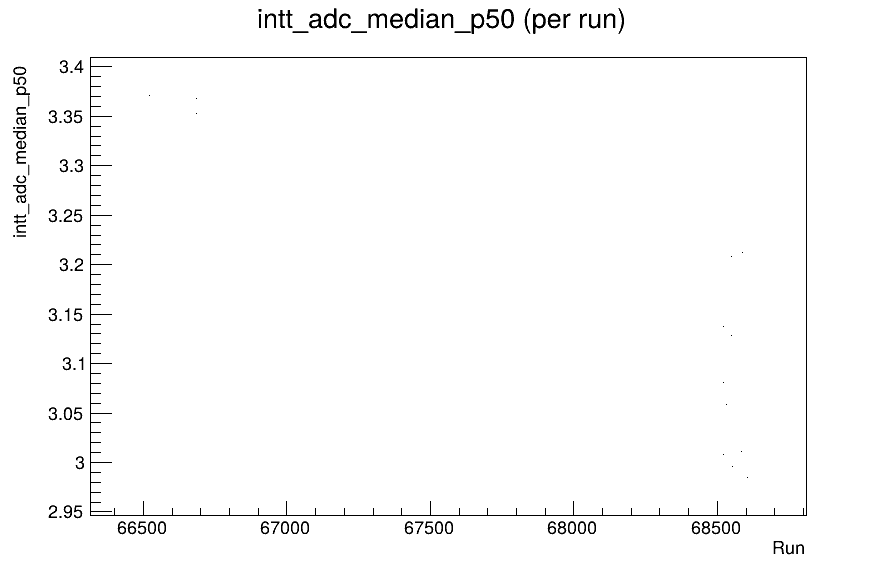
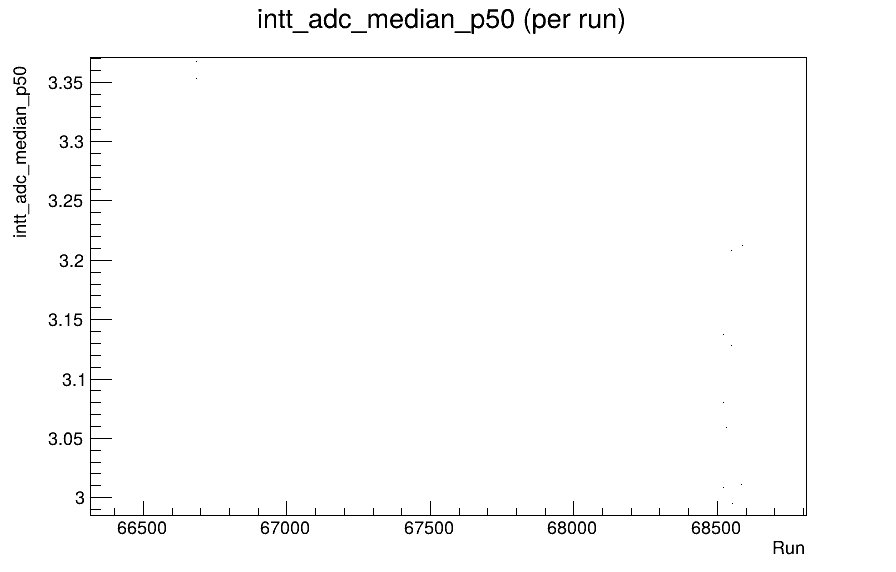
Automated QA run + changelog (202511060650)

diff --git a/20250928/docs/CHANGELOG_REALDATA_202511060650.md b/20250928/docs/CHANGELOG_REALDATA_202511060650.md
@@ -1,0 +1,34 @@
+# 🧠 sPHENIX QA Pipeline — Auto Changelog (Real Data)
+**Generated:** Thu Nov  6 06:50:32 EST 2025
+
+## Pipeline outputs in 20250928/out
+metrics_cluster_phi_intt_rms.csv
+metrics_cluster_phi_intt_rms_perrun.csv
+metrics_cluster_size_intt_mean.csv
+metrics_cluster_size_intt_mean_perrun.csv
+metrics_debug_intt_adc_peak.csv
+metrics_intt_adc_median_p50.csv
+metrics_intt_adc_median_p50_perrun.csv
+metrics_intt_adc_p90.csv
+metrics_intt_adc_p90_perrun.csv
+metrics_intt_adc_peak.csv
+metrics_intt_adc_peak_perrun.csv
+metrics_intt_bco_peak.csv
+metrics_intt_bco_peak_perrun.csv
+metrics_intt_hits_asym.csv
+metrics_intt_hits_asym_perrun.csv
+metrics_intt_phi_chi2_reduced.csv
+metrics_intt_phi_chi2_reduced_perrun.csv
+metrics_intt_phi_uniform_r1.csv
+metrics_intt_phi_uniform_r1_perrun.csv
+
+## Commit Summary
+3352705 Fix: handle empty or flat metrics; add y-axis padding and skip zero-weight rows
+
+⚠  **Warning:** One or more metrics contain NaN values (detected automatically).
+**Total NaN entries detected:**       26
+🕒 **Last QA NaN check:** 2025-11-06 06:50:32 EST
+**Affected runs:** (no explicit run numbers found)
+Affected files:
+- <span style="color:red">metrics_intt_hits_asym.csv</span>
+- <span style="color:red">metrics_intt_hits_asym_perrun.csv</span>
